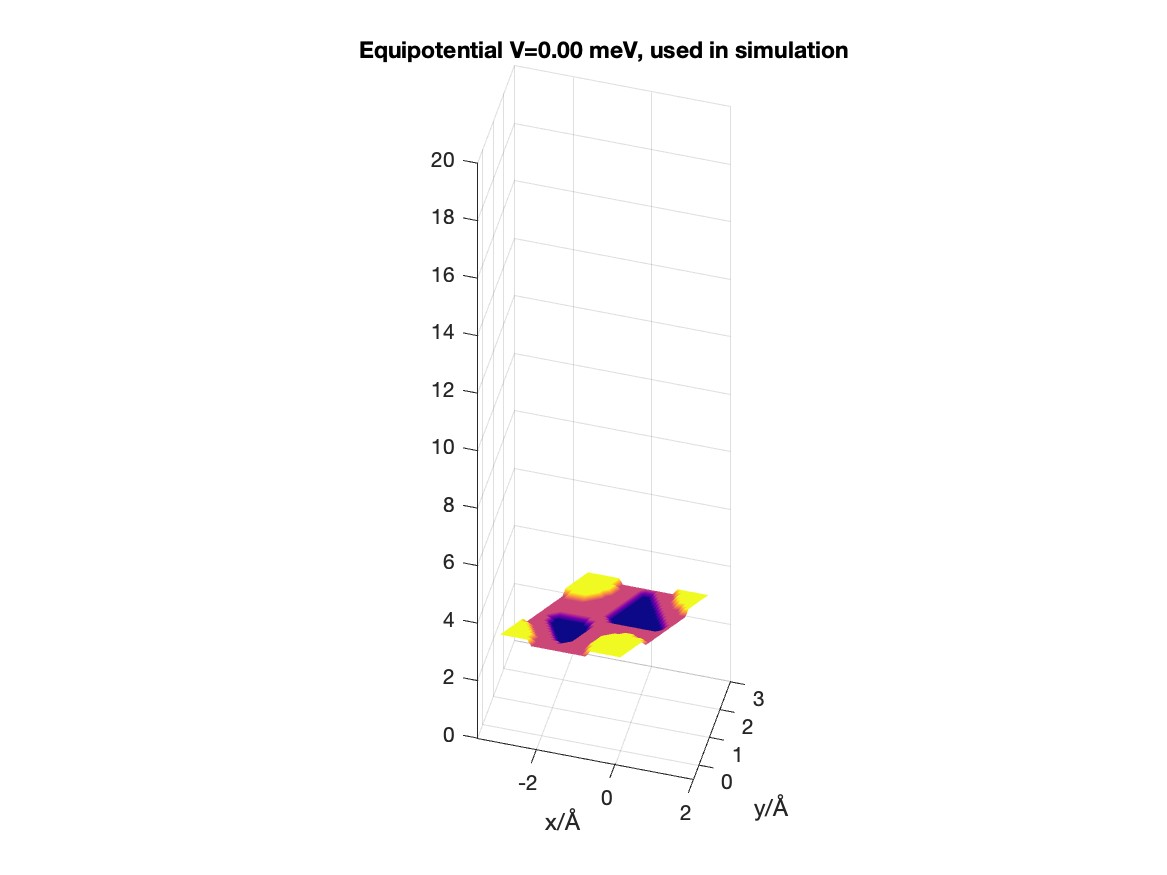
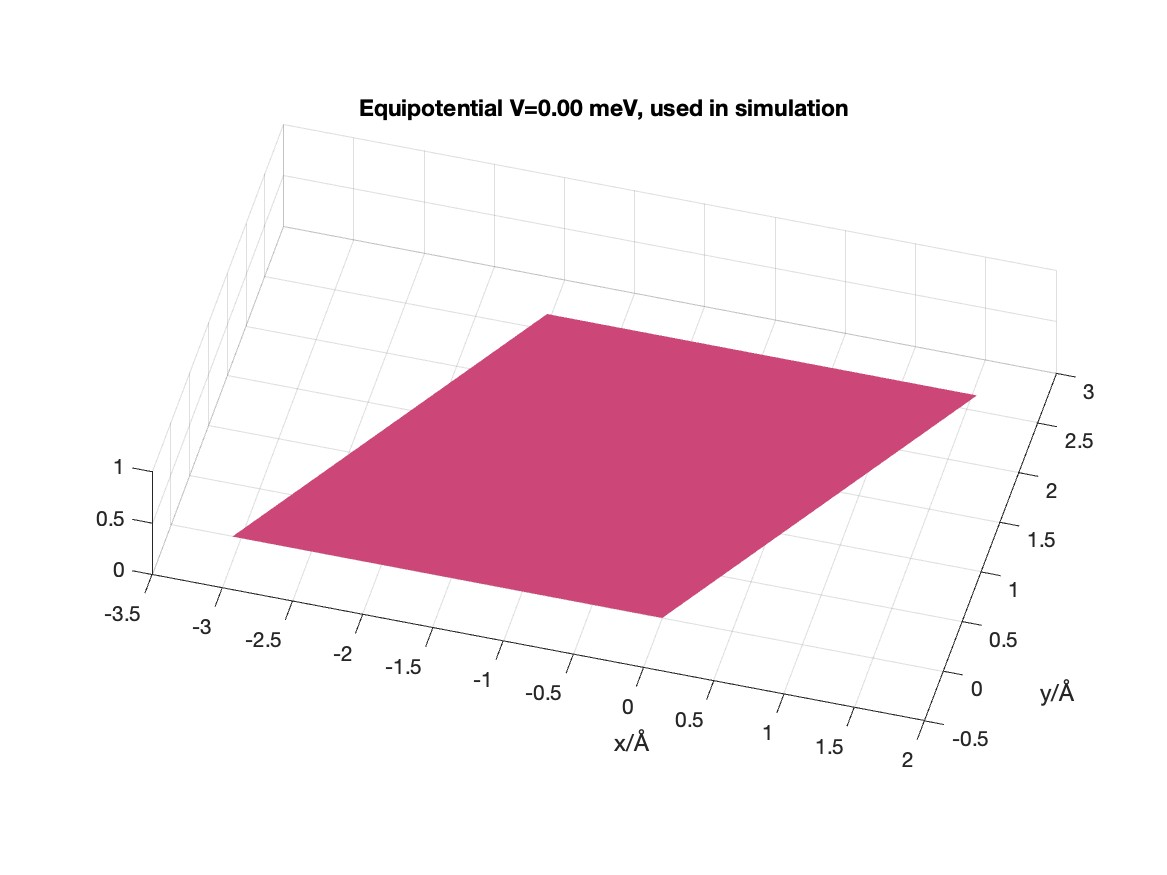
shorrt

diff --git a/potential_maker.m b/potential_maker.m
@@ -8,7 +8,7 @@ Nxy = 32; Nz = 100; Nsuper = 1;
 Theta = 0.0;
 %Theta = (/(Nsuper*Nsuper));
 disp('Theta = ' + Theta)
-zMax = 20; zMin = 0;%units Å
+zMax = 1; zMin = 0;%units Å
 
 %a1=[const.a,0];
 %a2=[0,const.a]; 
